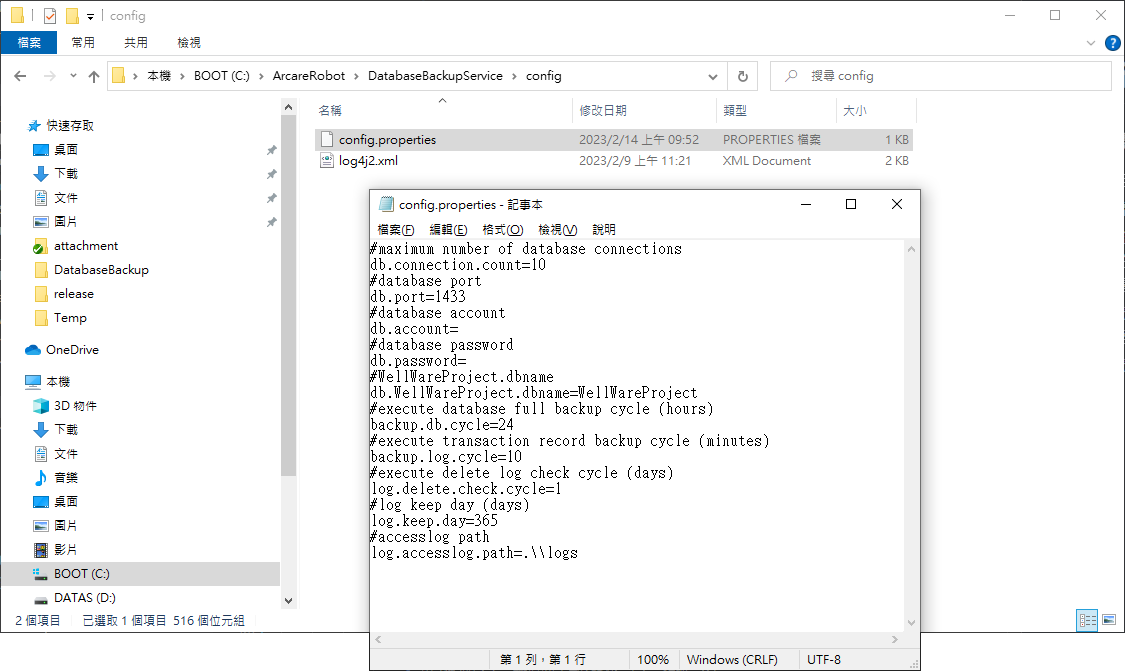
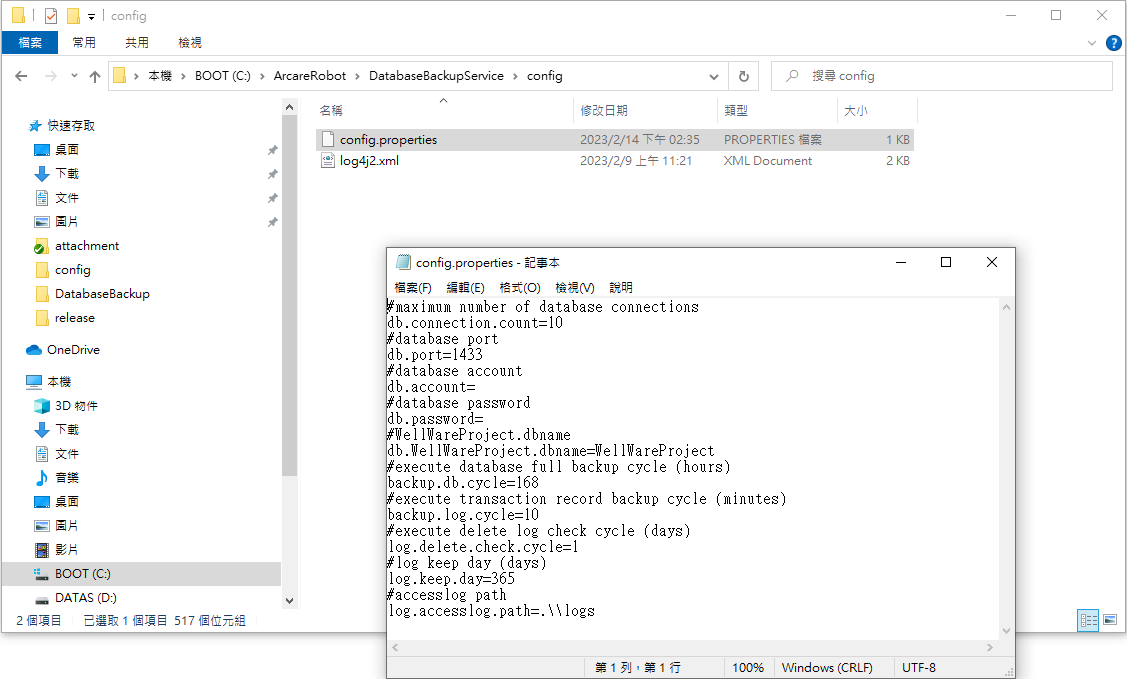
#9196 行動辦公雲資料庫備份服務

diff --git a/asus/ASUSMaintainTool/DBBackup/Config/README.md b/asus/ASUSMaintainTool/DBBackup/Config/README.md
@@ -25,7 +25,7 @@
             * db.WellWareProject.dbname
                 * 用途說明：WellWareProject的資料庫名，預設 WellWareProject
             * backup.db.cycle
-                * 用途說明：資料庫完整備份週期(單位=小時)，預設 24
+                * 用途說明：資料庫完整備份週期(單位=小時)，預設 168
             * backup.log.cycle
                 * 用途說明：資料庫交易記錄備份週期(單位=分鐘)，預設 10
             * log.delete.check.cycle=1
@@ -47,8 +47,10 @@
     * 可能原因：
         * config 資料夾下的檔案【config.properties】參數設定錯誤，以下範例為 db.account、db.password 未設定的錯誤訊息
             * ![image_message_startError1]
-        * 資料庫連線失敗，以下範例為 db.account、db.password 設定錯誤，而無法連線資料庫
+        * config 資料夾下的檔案【config.properties】遺失的錯誤訊息
             * ![image_message_startError2]
+        * 資料庫連線失敗，以下範例為 db.account、db.password 設定錯誤，而無法連線資料庫
+            * ![image_message_startError3]
 * accesslog錯誤訊息說明
     * 以下為【資料庫完整備份】可能會產生的錯誤說明
 
@@ -84,3 +86,4 @@
 [image_message_startError]:attachment/message_startError.png "啟動失敗_查看訊息"
 [image_message_startError1]:attachment/message_startError1.png "啟動失敗_錯誤1"
 [image_message_startError2]:attachment/message_startError2.png "啟動失敗_錯誤2"
+[image_message_startError3]:attachment/message_startError3.png "啟動失敗_錯誤3"
